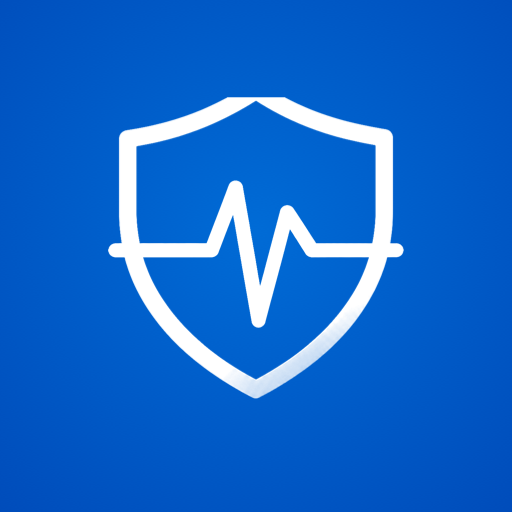
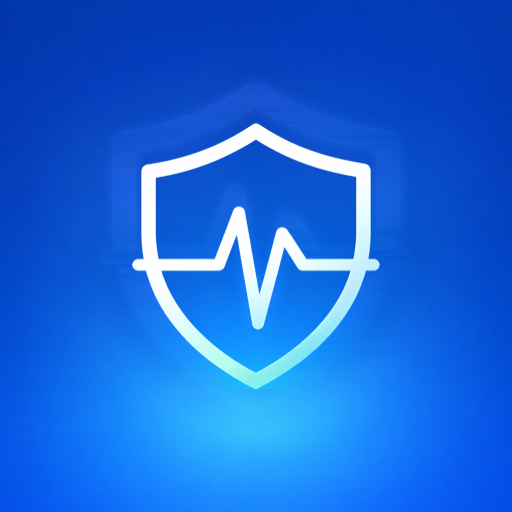
앱 아이콘 확정: 원본 그림 그대로(배경=원본·전경=원본 방패 색 유지), 자르기 좌표 뒤집기 오류 수정
- art/app-icon-gen.swift: CGBitmapContext 버퍼는 위가 0 (뒤집으면 방패 윗부분 41px 잘림)
- 태곤 님 확정 2026-09-26

diff --git a/Lenova idea tap 12.7/app/art/app-icon-gen.swift b/Lenova idea tap 12.7/app/art/app-icon-gen.swift
@@ -38,8 +38,7 @@ for y in 0..<H { for x in 0..<W {
     var a = (Double(r) - 85.0) / 90.0   // 방패 아래 연한 파랑 광택(R 40~80)은 뺀다
     a = max(0, min(1, a))
     let i = (y * W + x) * 4
-    let v = UInt8(255 * a)
-    m[i] = v; m[i+1] = v; m[i+2] = v; m[i+3] = v   // premultiplied white
+    m[i] = UInt8(Double(r) * a); m[i+1] = UInt8(Double(g) * a); m[i+2] = UInt8(Double(b) * a); m[i+3] = UInt8(255 * a)   // 원본 색 × 알파
 }}
 let shield = maskCtx.makeImage()!
 // 방패 실제 경계 상자
@@ -48,7 +47,8 @@ for y in 0..<H { for x in 0..<W { if m[(y*W+x)*4+3] > 40 { minX = min(minX,x); m
 let box = CGRect(x: minX, y: minY, width: maxX-minX+1, height: maxY-minY+1)
 print("shield box", box)
 // CGImage 는 위가 0, 버퍼는 아래가 0 → 세로를 뒤집어 자른다
-let boxImg = CGRect(x: box.minX, y: Double(H) - box.maxY, width: box.width, height: box.height)
+// 픽셀 실측(9/26): CGBitmapContext 버퍼는 위가 0 → 뒤집지 않는다. 뒤집으면 방패가 41px 밀려 윗부분이 잘린다.
+let boxImg = box
 print("box in image coords", boxImg)
 for band in stride(from: 0, to: H, by: 100) {
     var n = 0
@@ -57,7 +57,33 @@ for band in stride(from: 0, to: H, by: 100) {
 }
 let shieldCrop = shield.cropping(to: boxImg)!
 
+// 배경층 = 원본에서 방패 획만 주변 파랑으로 메운 것(가로 방향 선형 보간, 마스크 3px 팽창)
+let bgCtx = bitmap(W, H); bgCtx.draw(image, in: CGRect(x: 0, y: 0, width: W, height: H))
+let bgp = bgCtx.data!.bindMemory(to: UInt8.self, capacity: W * H * 4)
+var masked = [Bool](repeating: false, count: W * H)
+for y in 0..<H { for x in 0..<W { if m[(y*W+x)*4+3] > 8 { masked[y*W+x] = true } } }
+var dil = masked
+for y in 0..<H { for x in 0..<W { if masked[y*W+x] { for dy in -3...3 { for dx in -3...3 {
+    let yy = y+dy, xx = x+dx; if yy >= 0 && yy < H && xx >= 0 && xx < W { dil[yy*W+xx] = true } } } } } }
+for y in 0..<H {
+    var x = 0
+    while x < W {
+        if !dil[y*W+x] { x += 1; continue }
+        var e = x; while e < W && dil[y*W+e] { e += 1 }   // run [x, e)
+        let li = max(x-1, 0), ri = min(e, W-1)
+        let l = (y*W+li)*4, r = (y*W+ri)*4
+        for k in x..<e {
+            let t = Double(k - x + 1) / Double(e - x + 1)
+            for c in 0..<3 { bgp[(y*W+k)*4+c] = UInt8(Double(bgp[l+c]) * (1-t) + Double(bgp[r+c]) * t) }
+        }
+        x = e
+    }
+}
+let cleanBackground = bgCtx.makeImage()!
 func radial(_ ctx: CGContext, _ size: Int) {
+    ctx.draw(cleanBackground, in: CGRect(x: 0, y: 0, width: size, height: size))
+}
+func radialOld(_ ctx: CGContext, _ size: Int) {
     let colors = [CGColor(red: CGFloat(inner.0)/255, green: CGFloat(inner.1)/255, blue: CGFloat(inner.2)/255, alpha: 1),
                   CGColor(red: CGFloat(edge.0)/255, green: CGFloat(edge.1)/255, blue: CGFloat(edge.2)/255, alpha: 1)] as CFArray
     let grad = CGGradient(colorsSpace: cs, colors: colors, locations: [0, 1])!
@@ -79,9 +105,7 @@ for (name, d) in dens {
     let bg = bitmap(s, s); radial(bg, s)
     save(bg.makeImage()!, "\(outDir)/mipmap-\(name)/ic_launcher_background.png")
     // legacy 48dp: 그라데이션 + 방패 70%
-    let l = Int(48 * d); let lg = bitmap(l, l); radial(lg, l)
-    let lh = Double(l) * 0.62, ls = lh / Double(box.height), lw = Double(box.width) * ls
-    lg.draw(shieldCrop, in: CGRect(x: (Double(l)-lw)/2, y: (Double(l)-lh)/2, width: lw, height: lh))
+    let l = Int(48 * d); let lg = bitmap(l, l); lg.draw(image, in: CGRect(x: 0, y: 0, width: l, height: l))
     let legacy = lg.makeImage()!
     save(legacy, "\(outDir)/mipmap-\(name)/ic_launcher.png")
     // round: 원형 클립
@@ -90,7 +114,11 @@ for (name, d) in dens {
 }
 // 미리보기용 512
 let pv = bitmap(512, 512); radial(pv, 512)
-let ph = 512.0 * 0.62, ps = ph / Double(box.height), pw = Double(box.width) * ps
+let ph = 512.0 * 0.52, ps = ph / Double(box.height), pw = Double(box.width) * ps
 pv.draw(shieldCrop, in: CGRect(x: (512-pw)/2, y: (512-ph)/2, width: pw, height: ph))
+// 런처 원형 마스크(72/108) 미리보기
+let pm = bitmap(512, 512); pm.addEllipse(in: CGRect(x: 0, y: 0, width: 512, height: 512)); pm.clip()
+let full = pv.makeImage()!; pm.draw(full, in: CGRect(x: -512*0.25, y: -512*0.25, width: 512*1.5, height: 512*1.5))
+save(pm.makeImage()!, "\(outDir)/preview-masked-512.png")
 save(pv.makeImage()!, "\(outDir)/preview-512.png")
 print("edge", edge, "inner", inner)
